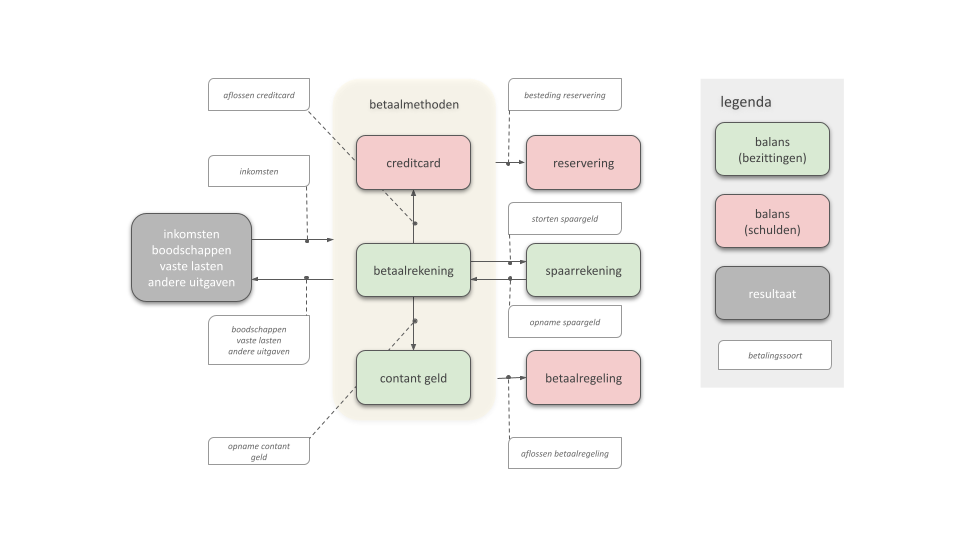
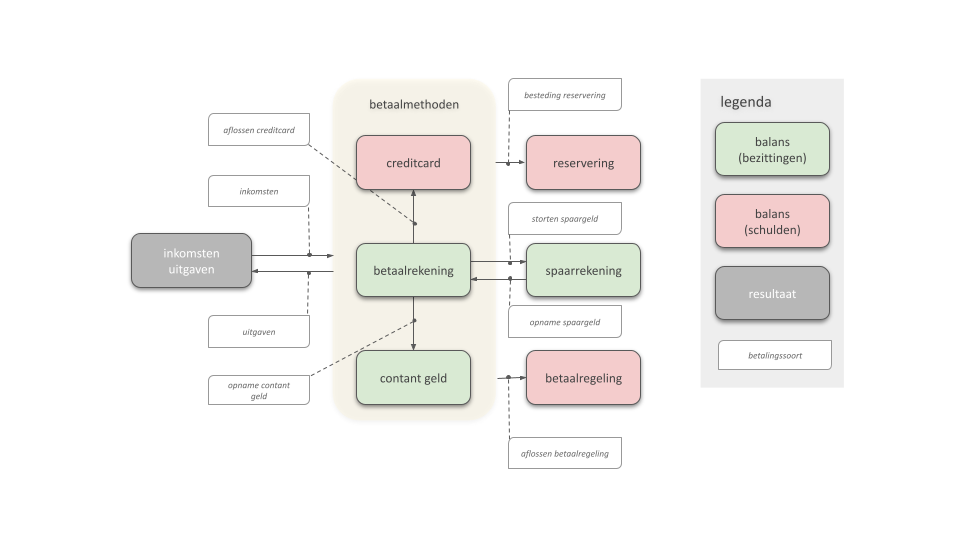
3 uitgavesoorten -> 1 algemene updates

diff --git a/docs/2-gebruikers-interactie.md b/docs/2-gebruikers-interactie.md
@@ -17,9 +17,7 @@ In deze versie van de documentatie beperk ik me to het opvoeren van betalingen
 Bij het opvoeren van een betaling moet de gebruiker kiezen uit de volgende soorten betalingen:
 
 - Inkomsten
-- Boodschappen
-- Vaste lasten
-- Andere uitgave
+- Uitgave
 - Aflossing betaalregeling
 - Aflossen creditcard
 - Besteding reservering
@@ -31,22 +29,21 @@ Het doel is de gebruiker zoveel mogelijk aan de hand te nemen en relevante velde
 in te vullen velden per betalingssoort. Pas als de betalingssoort is gekozen worden de invoervelden getoond; tot dat
 moment worden de velden vervangen door uitgegrijsde suggestie blokken.
 
-Voor de algemene flow wordt eerst (voor betalingssoort boodschappen, vaste lasten en andere uitgaven) in een tabel de
-interactie tussen gebruiker en systeem in 2 kolommen beschreven. In de tabel worden de gebruikersactie en de daarop
-volgende systeem reactie opgesomd.
+Voor de algemene flow wordt eerst (voor betalingssoort Uitgave) in een tabel de interactie tussen gebruiker en systeem
+in 2 kolommen beschreven. In de tabel worden de gebruikersactie en de daarop volgende systeem reactie opgesomd.
 
 Vervolgens wordt per betalingssoort alleen de informatie gegeven die daarvoor nodig is.
 
-#### Boodschappen, vaste lasten en andere uitgaven
+#### Uitgave
 
-| Gebruikersactie                                                                    | Systeem reactie                                                                                                                 |
-|------------------------------------------------------------------------------------|---------------------------------------------------------------------------------------------------------------------------------|
-| opent de app op de telefoon, logt in, <br/>opent INKOMSTEN/UITGAVEN                | toont de standaard view voor de gebruiker                                                                                       |
-| klikt op 'toevoegen betaling'                                                      | opent de 'toevoegen betaling' dialoog<br/>datum staat default op vandaag, overige velden leeg  of afwezig                       |
-| eventueel: klikt op de datum, kiest een andere datum                               |                                                                                                                                 |
-| kiest categorie 'boodschappen'                                                     | vult de betaalmethode 'Betaalrekening' als drop-down  met andere keuzes 'Contant' of 'Credit card'                              |
-| kiest 'contant geld' ipv 'betaalrekening'<br/>vult bedrag in, als positieve waarde |                                                                                                                                 |
-| klikt op opslaan                                                                   | sluit de 'toevoegen betaling' dialoog; opent eventueel een nieuwe<br/>toont het nieuwe saldo van de betaalrekening bij de saldi |
+| Gebruikersactie                                                                    | Systeem reactie                                                                                                                                                                                            |
+|------------------------------------------------------------------------------------|------------------------------------------------------------------------------------------------------------------------------------------------------------------------------------------------------------|
+| opent de app op de telefoon, logt in, <br/>opent INKOMSTEN/UITGAVEN                | toont de standaard view voor de gebruiker                                                                                                                                                                  |
+| klikt op 'toevoegen betaling'                                                      | opent de 'toevoegen betaling' dialoog<br/>datum staat default op vandaag, overige velden leeg  of afwezig                                                                                                  |
+| eventueel: klikt op de datum, kiest een andere datum                               |                                                                                                                                                                                                            |
+| kiest categorie 'Uitgave'                                                          | als er meerdere uitgave rekeningen zijn: geeft een drop-down met de namen van de uitgave rekeningen<br/>vult de betaalmethode 'Betaalrekening' als drop-down  met andere keuzes 'Contant' of 'Credit card' |
+| kiest 'contant geld' ipv 'betaalrekening'<br/>vult bedrag in, als positieve waarde |                                                                                                                                                                                                            |
+| klikt op opslaan                                                                   | sluit de 'toevoegen betaling' dialoog; opent eventueel een nieuwe<br/>toont het nieuwe saldo van de betaalrekening bij de saldi                                                                            |
 
 &nbsp;
 

diff --git a/docs/index.md b/docs/index.md
@@ -17,15 +17,15 @@ uitdagingen**.
 
 `PlusMin` is: Inkomsten en uitgaven, Overschot/buffer en tekort, Wiskunde voor iedereen, Niet digi en niet theoretisch.
 
-Dit gereedschap helpt administratiemaatjes en hulpvragers bij het budgetteren, monitoren van inkomsten en uitgaven. Het
+De app wordt onderdeel van een gereedschapskist met onder andere een papieren versie, checklists, opleidingen, etc.
+
+De app helpt administratiemaatjes en hulpvragers bij het budgetteren, monitoren van inkomsten en uitgaven. Het
 voorkomt onverwachte financi&euml;le problemen. Het doel is een laagdrempelige digitale oplossing te bieden, in
 combinatie met o.a. een 'papieren' versie. Het moet eenvoudig te gebruiken zijn voor hulpvragers met beperkte digitale
 vaardigheden en minimale apparatuur, zoals alleen een mobiele telefoon.
 
 Het administratiemaatjes krijgt toegang, ook van huis uit, tot de gegevens die de hulpvrager wil delen, zonder dat er
 toegang tot een bankrekening wordt gegeven, en zonder dat die gegevens mee naar huis worden genomen.
-
-De app wordt onderdeel van een pakket met onder andere een papieren versie, checklists, opleidingen, etc.
 
 ## Doelgroep
 
@@ -35,17 +35,29 @@ hulpvragers in het algemeen.
 ## Probleemstelling
 
 Een deel van de mensen met geldzorgen heeft weinig digitale vaardigheden en communiceert veel via een mobiele
-telefoon (weinig overzicht, veel door elkaar). In de praktijk blijkt dat bestaande hulpmiddelen voor schuldhulpverlening
-niet voldoen aan de behoeften van administratiemaatjes en hulpvragers. Er is behoefte aan een eenvoudige, toegankelijke
-oplossing die:
+telefoon (weinig overzicht, veel door elkaar). In de praktijk blijkt dat bestaande hulpmiddelen voor hulp bij geldzorgen
+door vrijwilliegers niet voldoen aan de behoeften van administratiemaatjes en hulpvragers. Er is behoefte aan een
+eenvoudige, toegankelijke oplossing die:
 
 - Eenvoudig inkomsten en uitgaven kan registreren
-- Budgettering ondersteunt en de voortgang (uitputting) van budgetten bewaakt
+- Meegroeit met het competentieniveau en motivatie van de hulpvrager
+- Als de competentie van de hulpvrager het toelaat: budgetteren, reserveren en aflossen ondersteunt, en de voortgang
+  bewaakt
 - Heldere signalen geeft bij afwijkingen van de uitputting ten opzichte van het budget
 - Naadloos aansluit op het pakket van checklists, opleidingen, etc.
 
 Hulpvragers zijn vaak minder digitaal vaardig en hebben niet altijd toegang tot moderne digitale hulpmiddelen. `PlusMin`
 moet daarom makkelijk bruikbaar zijn op mobiele telefoons, het meest gebruikte apparaat door hulpvragers.
+
+## Onderscheidend vermogen
+
+1. er is een papieren versie voor digitaal niet vaardige hulpvragers, met vervolgens ook een spreadsheet versie; de app
+   heeft de rijktse functionaliteit, en is ook op
+2. het sluit aan bij de begeleiding van de hulpvrager door de vrijwilliger (fase ontwikkeling)
+3. niveaus: aansluiten bij de competentie van de hulpvrager
+4. niveaus: papier en digitaal lopen synchroon
+5. vrijwilliger kan (in de digitale versie) meekijken en meehelpen, zonder toegang tot de bank, en zonder zaken mee naar
+   huis te nemen
 
 ## Motivatietheorie
 
@@ -84,17 +96,18 @@ signalen als er actie moet worden ondernomen.
 Het gereedschap biedt ondersteuning voor de volgende functionaliteiten:
 
 1. **PlusMin configureren**  
-   hulpvragers en vrijwilliger kunnen samen de categorie&euml;n bepalen: wat zijn de vaste laten, wat
-   rekenen we onder boodschappen, welke andere uitgaven zijn er en wat zijn de inkomsten. Daarnaast moeten de rekeningen
-   worden benoemd en een naam krijgen.
+   hulpvragers en vrijwilliger kunnen samen de categorie&euml;n bepalen: welke Uitgave rekeningen stellen we vast en
+   welke naam geven we ze? als we een vaste lasten uitgave rekening hebben, wat zijn dan vaste laten? idem voor
+   boodschappen en wat zijn de inkomsten.
 
 2. **Inkomsten en uitgaven registreren**  
    hulpvragers kunnen vervolgens eenvoudig transacties registreren en categoriseren.
 
 3. **Periode afsluiten**  
    aan het einde van de inkomsten periode (dus als de nieuwe uitkering of salaris binnenkort wordt ontvangen, of al is
-   ontvangen) evalueren de vrijwilliger en hulpvrager samen de afgelopen periode, kijke wat goed ging en wat kan
-   verbeteren, en starten de nieuwe periode.
+   ontvangen) evalueren de vrijwilliger en hulpvrager samen de afgelopen periode (wat vind je ervan? waaraan heb je
+   vooral je geld uitgegeven? is dat ok?), kijken wat goed ging en wat kan verbeteren, schuiven indien nodig tussen
+   potjes, en starten de nieuwe periode.
 
 4. **Visuele feedback**  
    Eenvoudige visuele signalen (zoals een stoplichtsysteem) geven aan of de registratie up-to-date is, of transacties

diff --git a/docs/1-functionaliteit.md b/docs/1-functionaliteit.md
@@ -24,23 +24,22 @@ Resultatenrekeningen (Categorie&euml;n)
     Inkomsten:
         (Salaris, uitkering, ...)
     Uitgaven:
-        Boodschappen
-        Vaste lasten
-        Andere uitgaven
+        (Boodschappen, vaste lasten, andere uitgaven, ...)
+
+Let op: per hulpvrager, per rekening, kunnen meerdere varianten worden benoemd. Bijvoorbeeld: Uitgaven opdelen in
+boodschappen, vaste lasten en andere uitgaven. Of verschillende betaalregelingen tegelijkertijd afbetalen.
 
 In PlusMin merkt de gebruiker hier niets van: in elke geregistreerde betaling worden zowel de debet als credit zijde in
-&eacute;&eacute;n keer opgenomen: de dubbele boeking lijkt daardoor een enkelvoudige boeking. PlusMin onderscheidt 10
+&eacute;&eacute;n keer opgenomen: de dubbele boeking lijkt daardoor een enkelvoudige boeking. PlusMin onderscheidt 8
 betalingssoorten, waarbij zowel de debet als credit zijde van de boeking worden bepaald. Het bedrag kan daardoor
 altijd als positief getal worden opgegeven.
 
-De 10 betalingssoorten met de debet en credit rekening:
+De 8 betalingssoorten met de debet en credit rekening:
 
 | BetalingsSoort          | Debet           | Credit           |
 |-------------------------|-----------------|------------------|
 | Inkomsten               | Inkomsten       | _Betaalmethode_  |
-| Boodschappen            | _Betaalmethode_ | Boodschappen     |
-| Vaste lasten            | _Betaalmethode_ | Vaste lasten     |
-| Andere uitgave          | _Betaalmethode_ | Andere uitgave   |
+| Uitgaven                | _Betaalmethode_ | Uitgaven         |
 | Aflossen betaalregeling | _Betaalmethode_ | Betaalregelingen |
 | Aflossen creditcard     | Betaalrekening  | Creditcard       |
 | Besteding reservering   | _Betaalmethode_ | Reservering      |
@@ -50,7 +49,7 @@ De 10 betalingssoorten met de debet en credit rekening:
 
 Daar waar '_Betaalmethode_' wordt gebruikt moet de gebruiker kiezen tussen Betaalrekening, Creditcard of Contant geld.
 
-Onderstaand diagram geeft deze 10 betalingssoorten schematisch weer, waarbij de pijl van debet naar credit wijst.
+Onderstaand diagram geeft deze 8 betalingssoorten schematisch weer, waarbij de pijl van debet naar credit wijst.
 
 ![](./img/PM-betalingssoort-schema.png)
 
@@ -88,9 +87,7 @@ zolang het uitzondering en niet regel is, niet in een keer helemaal mis.
 TODO: is dit B1 taalgebruik? of andersom: hoe maken we hier B1 taal van? Volgens ChatGPT:
 
 - Inkomsten
-- Boodschappen
-- Vaste lasten
-- Andere uitgave
+- Uitgaven
 - Betaling van een afgesproken bedrag
 - Betalen van je creditcardschuld
 - Geld gebruiken dat je apart hebt gezet
@@ -159,13 +156,11 @@ Een budget is een geoormerkte uitgave binnen 1 inkomsten cyclus waarvoor een bed
 rekeningen, met uitzondering van de bezittingen, kan een budget wordt opgesteld. Deze rekeningen worden de
 budgetrekeningen genoemd:
 
+- Uitgaven
 - Creditcard (schuld)
 - Betaalregelingen
-- Reserveringen
 - Inkomsten
-- Boodschappen
-- Vaste lasten
-- Andere uitgaven
+- Reserveringen
 
 Bij het inrichten van PlusMin kan per budgetrekening een budget worden vastgelegd. Hierbij kan het Nibud worden gebruikt
 voor referentie getallen. Een budget kan worden opgebouwd uit meerdere deelbudgetten (Vaste lasten = huur +
@@ -177,11 +172,11 @@ periode (bijvoorbeeld per week, maand of trimester) en een moment in die periode
 
 Enkele voorbeelden (zonder de bedragen):
 
-- huur (vaste lasten): elke maand, 1x per maand, op de 1ste
-- gas/elektra (vaste lasten): elke maand, 1x per maand, op de 4de
-- boodschappen (boodschappen): continu
-- koffie/taart met de fietsclub (anders): elke week op zondag
-- aflossing betaalregeling1 (aflossing): elke maand op de 2de vrijdag van de maand
+- huur: elke maand, 1x per maand, op de 1ste
+- gas/elektra: elke maand, 1x per maand, op de 4de
+- boodschappen: continu
+- koffie/taart met de fietsclub: elke week op zondag
+- aflossing belastingdienst: elke maand op de 2de vrijdag van de maand
 
 Naast budgetten zijn ook het [aflossingsschema](#aflossen) van de betaalregelingen en de [reserveringen](#reserveren)
 bepalend voor de beschikbare financi&euml;le ruimte per periode.
@@ -260,7 +255,7 @@ De stand van zaken gevisualiseerd: een grafische weergave van
 - het balanstotaal uitgezet in de tijd
 - de reserveringen met inzicht in de mate waarin het zal worden gehaald
 - de afbetalingsregelingen met inzicht in de resterende looptijd
-- de uitputting van Boodschappen, Vaste lasten en Andere uitgaven ten opzichte de te verwachten uitputting ervan
+- de uitputting van Uitgaven ten opzichte de te verwachten uitputting ervan
 
 TODO: nog iets anders?
 

diff --git a/docs/8-woordenlijst.md b/docs/8-woordenlijst.md
@@ -7,7 +7,7 @@ synoniem voor vrijwilliger
 #### balansverschuiving TODO goed woord hiervoor
 
 een verschuiving van geld tussen balansrekeningen (dus Aflossen betaalregeling, Aflossen creditcard, Besteding
-reservering, Opname spaargeld, Storten spaargeld of Opname contant geld); 
+reservering, Opname spaargeld, Storten spaargeld of Opname contant geld);
 
 #### betaalmethode
 
@@ -15,18 +15,16 @@ waarvan een betaling, aflossing of besteding reservering wordt betaald: Betaalre
 
 #### betaling
 
-een inkomst of uitgave (dus Inkomsten, Boodschappen, Vaste lasten of Andere uitgave); bijvoorbeeld 1 regel op het
-bankafschrift (bij een girale betaling)
+een Inkomst of Uitgave; bijvoorbeeld 1 regel op het bankafschrift (bij een girale betaling)
 
 #### betalingssoort
 
-synoniem van boekingsssoort; bewust foutieve benaming om het naar B1 taalniveau te brengen
+synoniem van boekingsssoort; bewust foutieve benaming om het dichter bij B1 taalniveau te brengen
 
 #### boekingsssoort
 
-de 10 soorten boekingen die PlusMin onderscheidt om een boeking te doen: Inkomsten, Boodschappen, Vaste lasten, Andere
-uitgave, Aflossen betaalregeling , Aflossen creditcard, Besteding reservering, Opname spaargeld, Storten spaargeld en
-Opname contant geld
+de 8 soorten boekingen die PlusMin onderscheidt om een boeking te doen: Inkomsten, Uitgaven, Aflossen betaalregeling,
+Aflossen creditcard, Besteding reservering, Opname spaargeld, Storten spaargeld en Opname contant geld
 
 #### boeking
 
@@ -39,19 +37,17 @@ de hoeveelheid geld die beschikbaar is voor een categorie gedurende een periode
 
 #### budgetrekening
 
-een rekening waarvoor een budget kan worden opgesteld (alle rekeningen met uitzondering van de bezittingen): 
+een rekening waarvoor een budget kan worden opgesteld (alle rekeningen met uitzondering van de bezittingen):
 
 - Creditcard (schuld)
 - Betaalregelingen
 - Reserveringen
 - Inkomsten
-- Boodschappen
-- Vaste lasten
-- Andere uitgaven
+- Uitgaven
 
 #### categorie
 
-naast de 'inkomsten', de uitgaven: 'boodschappen', 'vaste lasten', 'andere uitgaven', a.k.a. de resultaatrekeningen
+de 'inkomsten' en de 'uitgaven' a.k.a. de resultaatrekeningen
 
 #### co&ouml;rdinator
 
